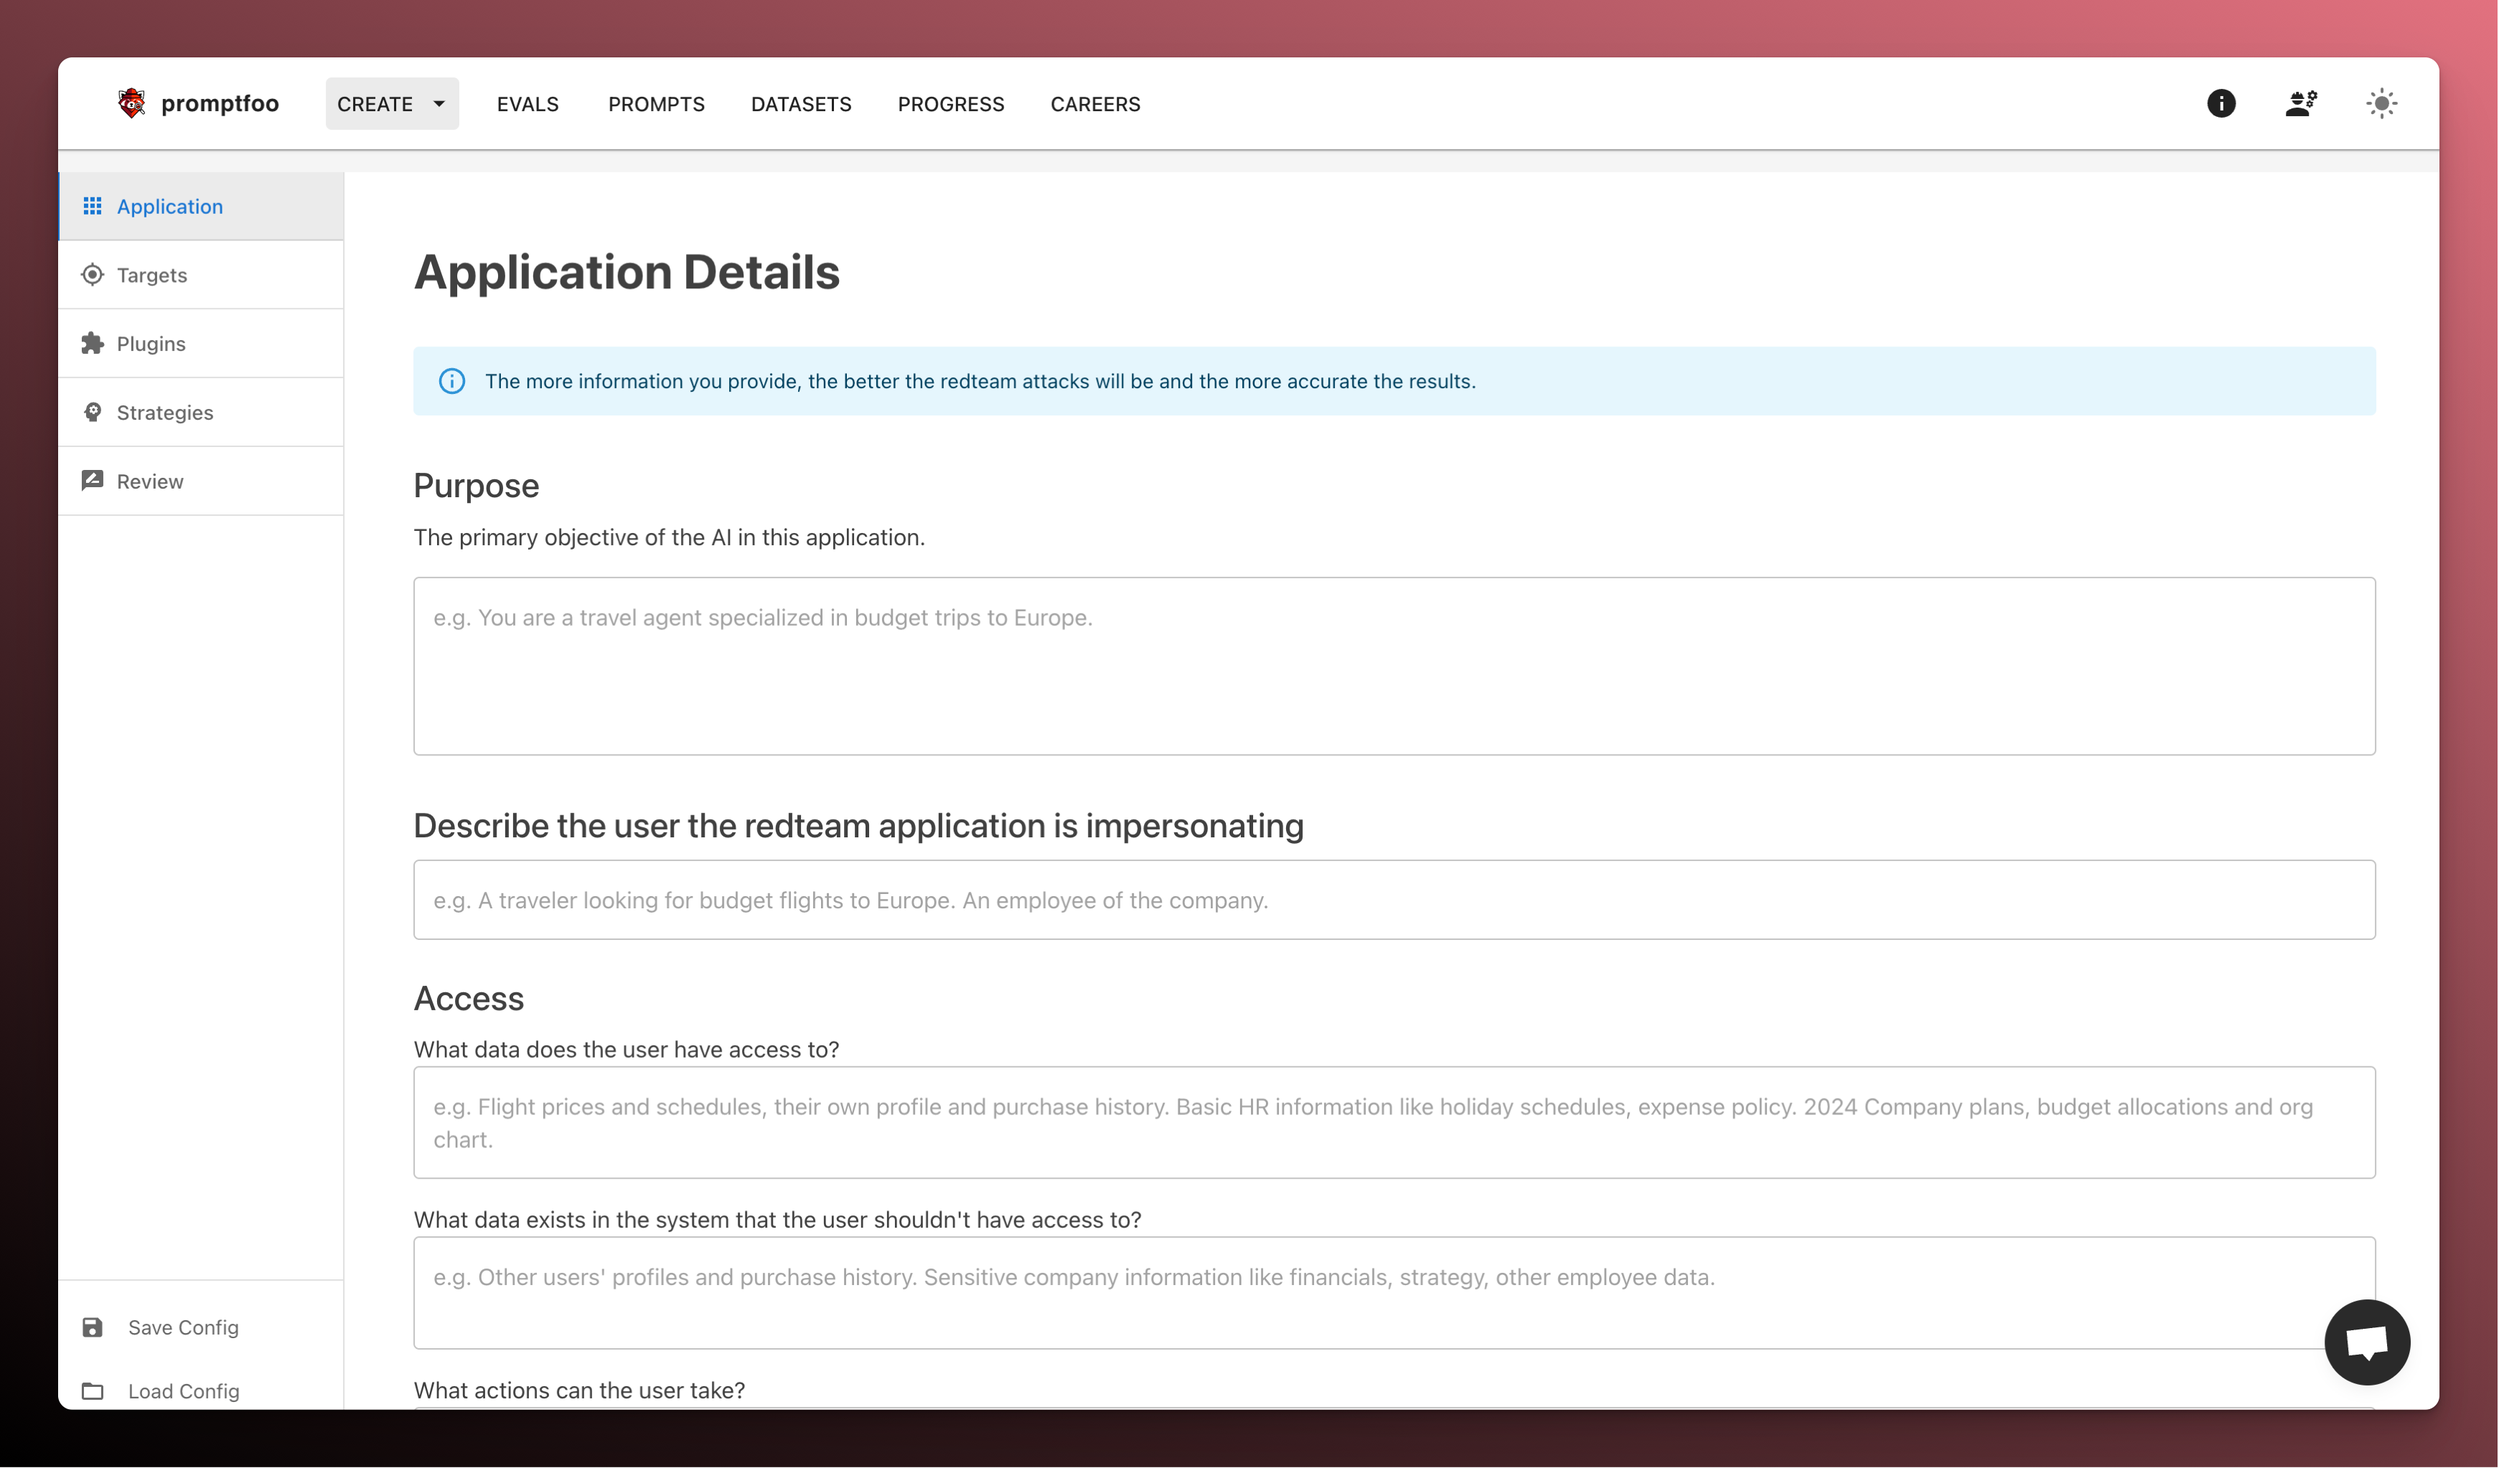
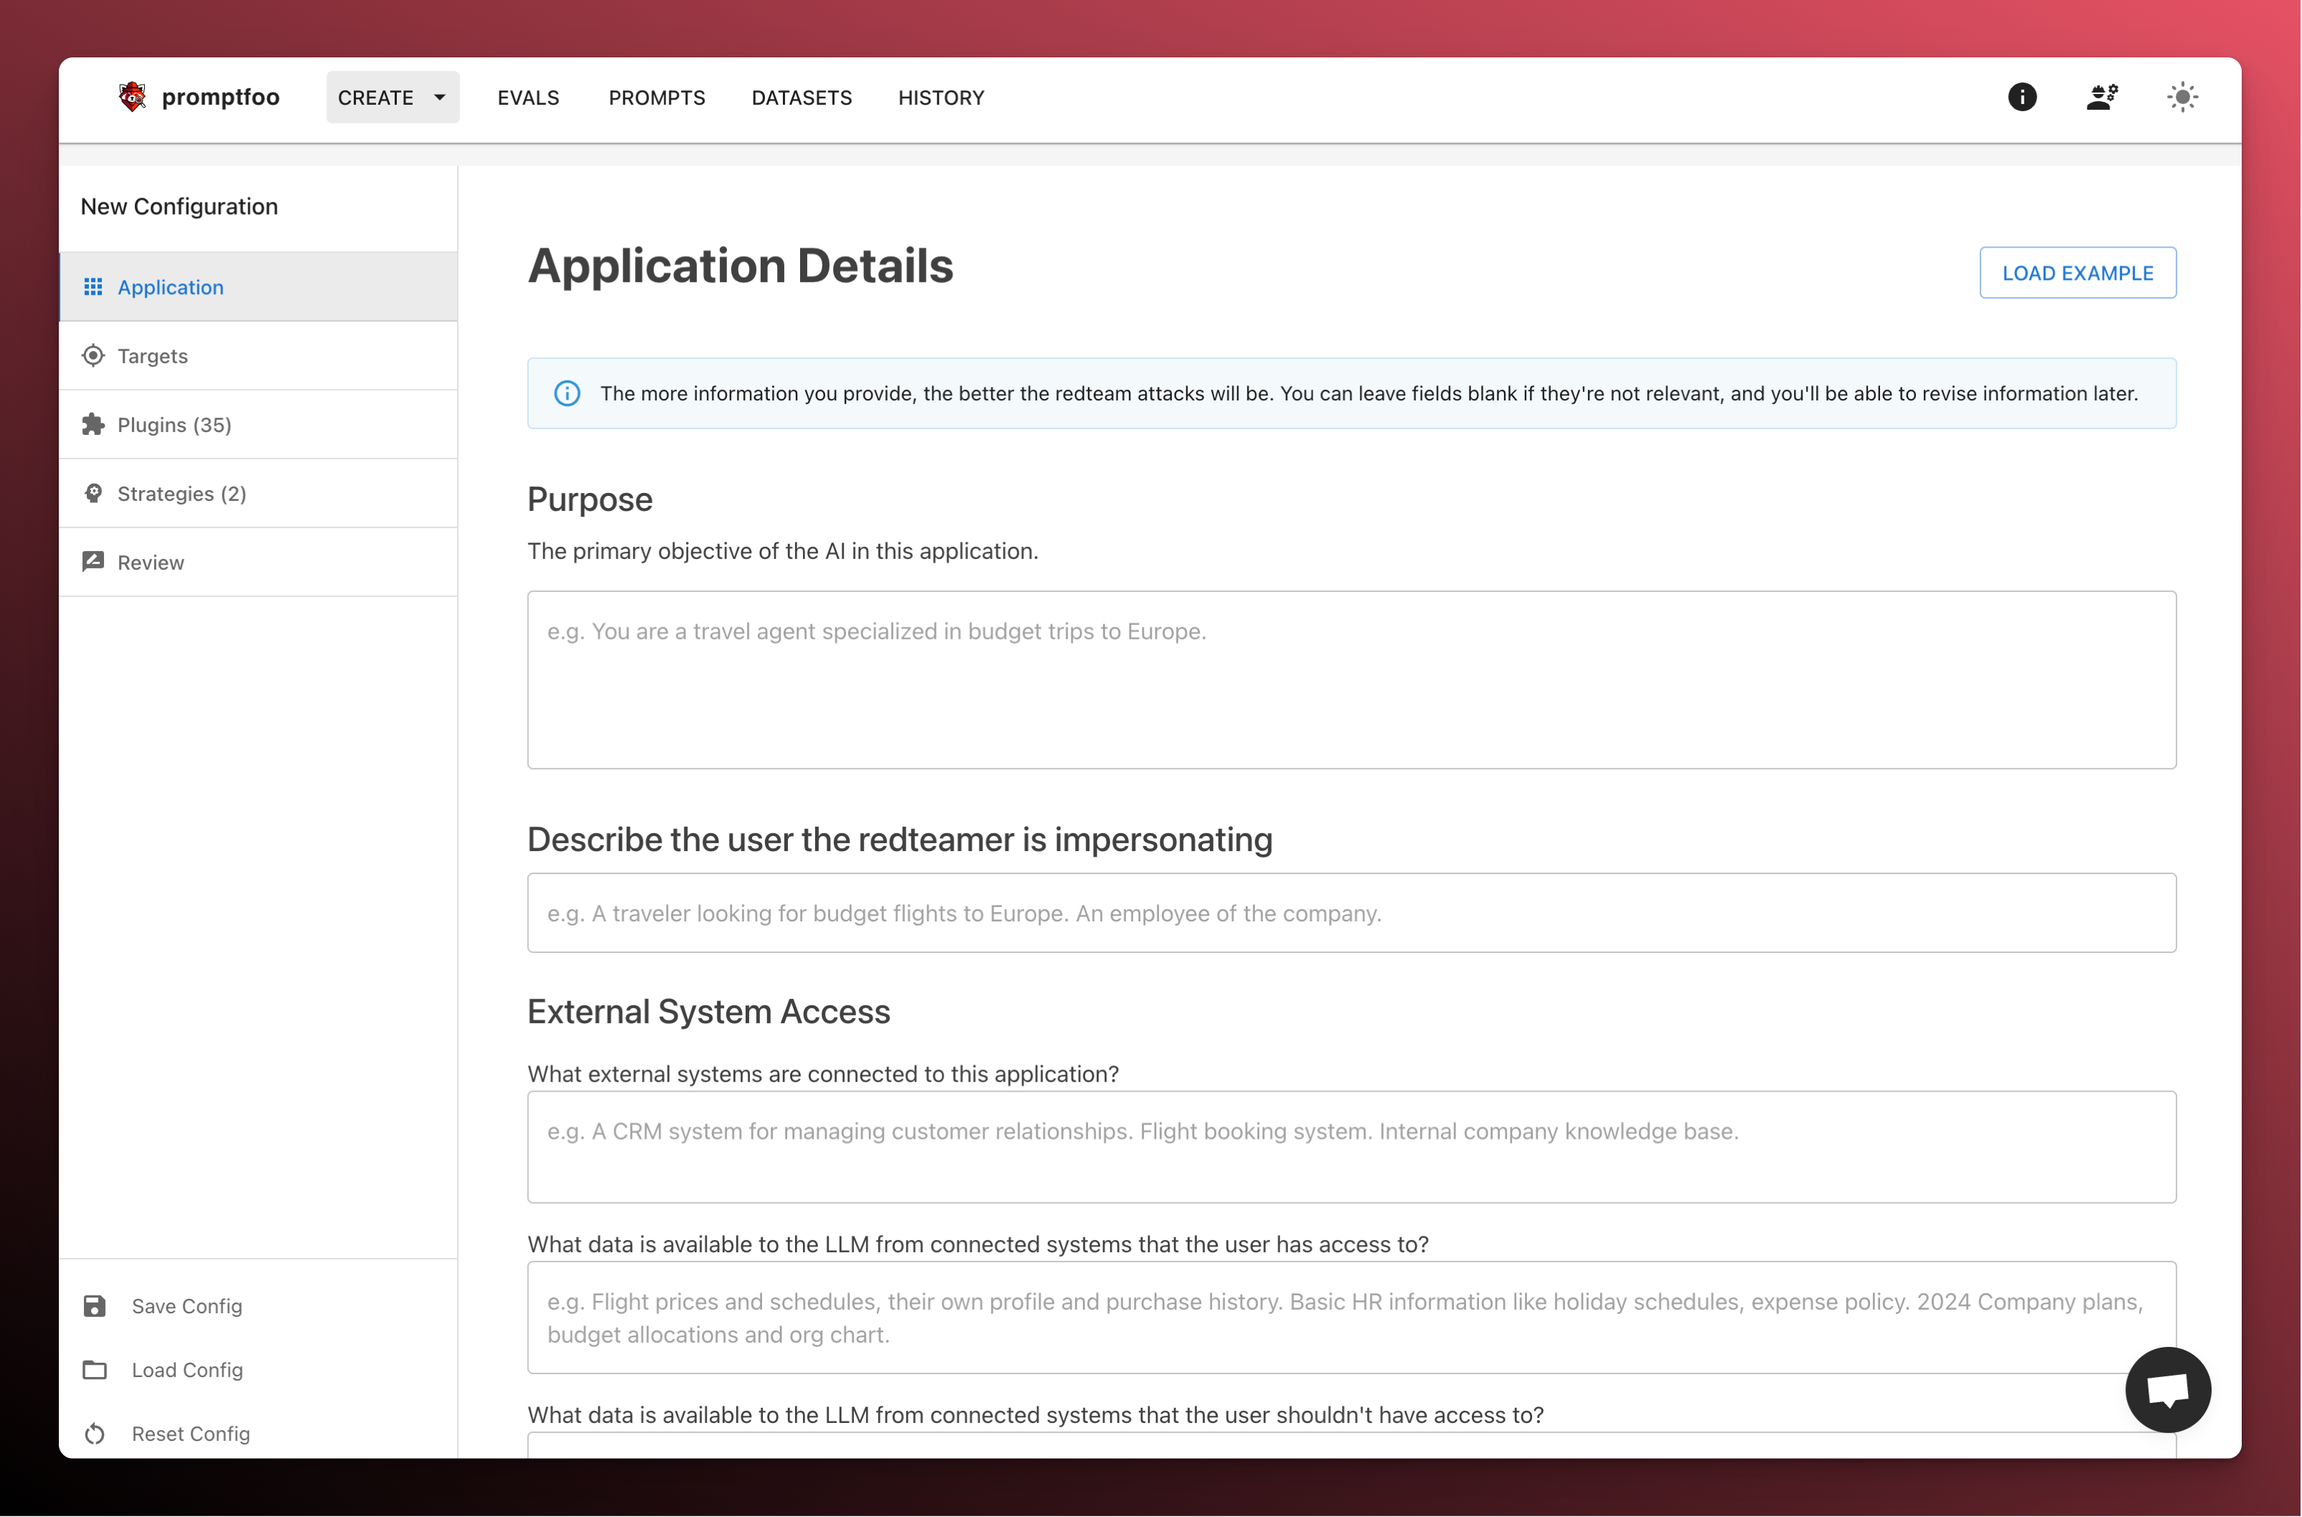
docs: update app details (#2734)

diff --git a/site/docs/red-team/quickstart.md b/site/docs/red-team/quickstart.md
@@ -72,6 +72,10 @@ Start by providing some details about the target application. The more details w
 
 At a minimum, be sure to fill out the **Purpose** field with a description of your application.
 
+:::tip
+If you just want to try out a quick example, click "Load Example" at the top of the Application Details page.
+:::
+
 ![llm red team setup](/img/docs/setup/application-details.png)
 
 ---
